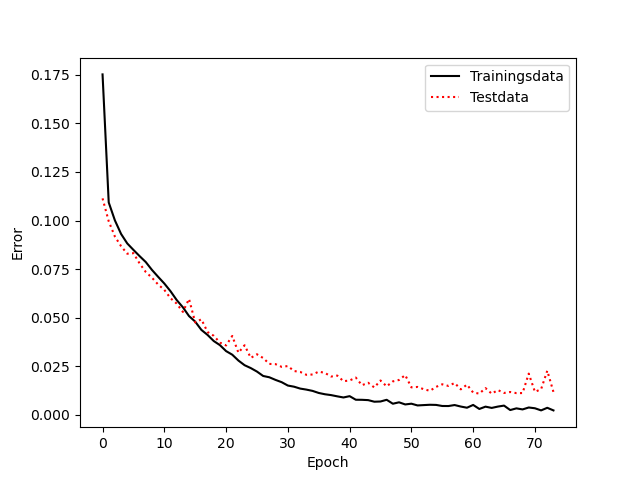
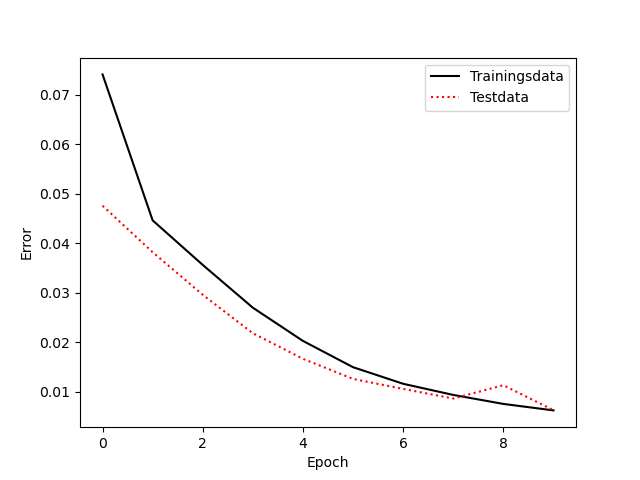
fixed privilege issue

diff --git a/streamer_shield_cli.py b/streamer_shield_cli.py
@@ -116,7 +116,19 @@ class StreamerShieldTwitch:
                 "value": True,
                 "cli_func": self.unblacklist_cli,
                 "twt_func": self.unblacklist_twitch
-                }
+                }, 
+        "streamershield":{
+            "help": "!streamershield : prints info about the shield",
+                "value": False,
+                "cli_func": self.shield_info_cli,
+                "twt_func": self.shield_info_twitch
+                }, 
+        "joinme":{
+            "help": "!joinme : joins user, only available in the bot chat",
+                "value": False,
+                "cli_func": self.join_me_cli,
+                "twt_func": self.join_me_twitch
+                },
         }
         pass
           
@@ -164,6 +176,8 @@ class StreamerShieldTwitch:
     ### CLI Command Handling
     async def command_handler(self, command :str):
         parts = command.split(" ")
+        if len(parts)==0:
+            return
         if not(parts[0] in self.commands.keys()):
             self.l.error(f'Command {parts[0]} unknown')
         if self.commands[parts[0]]['value']:
@@ -176,6 +190,10 @@ class StreamerShieldTwitch:
             com = input("type help for available commands\n")
             await self.command_handler(com)
     
+    async def shield_info_cli(self):
+        self.l.info('''
+                    StreamerShield is the AI ChatBot to rid twitch once and for all from scammers. More information here: https://linktr.ee/caesarlp
+                    ''')
     
     async def help_cli(self):
         for command, value in self.commands.items():
@@ -183,9 +201,19 @@ class StreamerShieldTwitch:
             
     async def stop_cli(self):
         self.l.fail("Stopping!")
-        await self.chat.stop()
-        await self.eventsub.stop()
-        await self.twitch.close()
+        try:
+            await self.chat.stop() #sometimes is already gone when stopped, so...
+        except:
+            pass
+        try:
+            await self.eventsub.stop()
+        except:
+            pass
+        try:
+            await self.twitch.close()
+        except:
+            pass
+        raise Exception("Stopped by User") #not the most elegant but works
     
     async def arm_cli(self):
         self.l.warning("Armed StreamerShield")
@@ -194,6 +222,9 @@ class StreamerShieldTwitch:
     async def disarm_cli(self):
         self.l.warning("Disarmed StreamerShield")
         self.is_armed = False
+    
+    async def join_me_cli(self):
+        self.l.error("Cannot invoke join_me from cli, please use join instead")
     
     async def join_cli(self, name:str):
         unable_to_join = self.chat.join_room(name)
@@ -228,6 +259,8 @@ class StreamerShieldTwitch:
         self.list_update(name, self.black_list, remove= True)
         
     ### Twitch Command Handling
+    async def shield_info_twitch(self, chat_command: ChatCommand):
+         await chat_command.reply('StreamerShield is the AI ChatBot to rid twitch once and for all from scammers. More information here: https://linktr.ee/caesarlp')
     
     async def help_twitch(self, chat_command : ChatCommand):
         if(not (chat_command.user.mod or chat_command.user.name == chat_command.room.name)):
@@ -257,11 +290,29 @@ class StreamerShieldTwitch:
         self.l.warning("Disarmed StreamerShield")
         self.is_armed = False
     
+    async def join_me_twitch(self, chat_command : ChatCommand):
+        name = chat_command.user.name
+        if(not (chat_command.room.name == self.chat.username)):
+            return
+        unable_to_join = await self.chat.join_room(name)
+        if not (unable_to_join == None):
+            await chat_command.reply("Unable to join")
+            self.l.error(f"Unable to join {name}")
+            return
+        if self.chat.is_mod(name):
+            await chat_command.reply("Joined succsessfully")
+            self.list_update(name, self.channel_location)
+            self.l.passing(f"Succsessfully joined {name}")
+            return
+        await chat_command.reply(f"Succsessfully joined {name}, but no mod status")
+        self.l.error(f"Succsessfully joined {name}, but no mod status")
+    
+    
     async def join_twitch(self, chat_command : ChatCommand):
-        name = chat_command.parameter
+        name = chat_command.parameter.replace("@", "")
         if(not (chat_command.user.mod or chat_command.user.name == chat_command.room.name)):
             return
-        unable_to_join = self.chat.join_room(name)
+        unable_to_join = await self.chat.join_room(name)
         if not (unable_to_join == None):
             await chat_command.reply("Unable to join")
             self.l.error(f"Unable to join {name}")
@@ -284,25 +335,25 @@ class StreamerShieldTwitch:
         
     async def whitelist_twitch(self, chat_command : ChatCommand):
         if chat_command.user.mod or chat_command.user.name == chat_command.room.name:
-            name = chat_command.parameter.replace(' ', '')
+            name = chat_command.parameter.replace("@", "")
             self.list_update(name, self.white_list)
             await chat_command.reply(f'User {name} is now whitelisted')
         
     async def unwhitelist_twitch(self, chat_command : ChatCommand):
         if chat_command.user.mod or chat_command.user.name == chat_command.room.name:
-            name = chat_command.parameter.replace(' ', '')
+            name = chat_command.parameter.replace("@", "")
             self.list_update(name, self.white_list, remove = True)
             await chat_command.reply(f'User {name} is no longer whitelisted')
             
     async def blacklist_twitch(self, chat_command : ChatCommand):
         if chat_command.user.mod or chat_command.user.name == chat_command.room.name:
-            name = chat_command.parameter.replace(' ', '')
+            name = chat_command.parameter.replace("@", "")
             self.list_update(name, self.black_list)
             await chat_command.reply(f'User {name} is now blacklisted')
         
     async def unblacklist_twitch(self, chat_command : ChatCommand):
         if chat_command.user.mod or chat_command.user.name == chat_command.room.name:
-            name = chat_command.parameter.replace(' ', '')
+            name = chat_command.parameter.replace("@", "")
             self.list_update(name, self.black_list, remove = True)
             await chat_command.reply(f'User {name} is no longer blacklisted')
     
@@ -317,7 +368,9 @@ class StreamerShieldTwitch:
         
     async def on_message(self, msg : ChatMessage):
         name = msg.user.name
-        if self.check_for_privilege(msg.user):
+        privilege = (msg.user.mod or msg.user.vip or msg.user.subscriber or msg.user.turbo)
+        if(privilege):
+            self.list_update(name, self.white_list)
             return
         await self.check_user(name, msg.room.room_id)
         

diff --git a/data_generator.py b/data_generator.py
@@ -126,13 +126,15 @@ if __name__ == "__main__":
     arr = np.array(load_csv("data_for_gen.csv"))
     raw_data_len = len(arr)
     raw_data_scam = np.count_nonzero(arr == "1")
-    arr = np.concatenate((arr, DataGen.name_gen("names.csv", 50, gen_trailing_numbers=True)))
     arr = np.concatenate((arr, DataGen.gen_char(arr, char='_')))
-    arr = np.concatenate((arr, DataGen.full_name_gen("names.csv", "surnames.csv", 50, gen_trailing_numbers=True)))
-    arr = np.concatenate((arr, DataGen.full_name_gen("names.csv", "surnames.csv", 50, gen_trailing_numbers=True, insert = '_')))
+    arr = np.concatenate((arr, DataGen.randomize_numbers(arr)), axis=0)
+    arr = np.concatenate((arr, DataGen.name_gen("names.csv", 30, gen_trailing_numbers=True)))
+    arr = np.concatenate((arr, DataGen.full_name_gen("names.csv", "surnames.csv", 20, gen_trailing_numbers=True)))
+    arr = np.concatenate((arr, DataGen.full_name_gen("names.csv", "surnames.csv", 20, gen_trailing_numbers=True, insert = '_')))
+    arr = np.concatenate((arr, DataGen.gen_char(arr, char='_')))
+    arr = np.concatenate((arr, DataGen.randomize_numbers(arr)), axis=0)
     arr = np.concatenate((arr, DataGen.gen_gfx_prefix(arr)),axis=0)
     arr = np.concatenate((arr, DataGen.gen_gfx_suffix(arr)), axis=0)
-    arr = np.concatenate((arr, DataGen.randomize_numbers(arr)), axis=0)
     print(
         f'''{math.floor((np.count_nonzero(arr == "1")/len(arr))*100)}% of the Dataset are scammers
         Of that {raw_data_scam} were not generated

diff --git a/streamer_shield.py b/streamer_shield.py
@@ -45,8 +45,8 @@ class StreamerShield:
     
     
     def test(self, onehot):
-        test_names_users = ["caesarlp", "VTNiles", "RustoCa", "norari__" ]
-        test_names_scammers = ["Sophie_Howard25", "Jessica_Bell", "Amber_Brooks", "Alice_gfx"  ]
+        test_names_users = ["caesarlp", "VTNiles", "RustoCa", "norari__", "roooooooooberrrrrrrrrrrt" ]
+        test_names_scammers = ["Sophie_Howard25", "Jessica_Bell", "Amber_Brooks", "Alice_gfx", "elizabethshriver" ]
         correctly_identified_users_bool = []
         correctly_identified_users_conf = []
         correctly_identified_scammers_bool = []
@@ -74,7 +74,7 @@ class StreamerShield:
         
     
 if __name__ == "__main__":
-    ss = StreamerShield("G:\VS_repos\streamer_shield\shield_candidate_32_16_8.h5", 25, 0.5, 0.5)
+    ss = StreamerShield("G:\\VS_repos\\streamer_shield\\auto_gen.h5", 32, 0.3, 0.3)
     l = Logger(console_log=True)
     onehot = False
     

diff --git a/train.py b/train.py
@@ -5,9 +5,9 @@ from streamer_shield_train import train
 
 if __name__ == "__main__":
     l= Logger(console_log=True)
-    layers = [48, 32, 16]
-    train("generated_data.csv", "auto_gen.h5", layers=layers, patience = 10, epochs = 100, sequence_len=30)
-    ss = StreamerShield("auto_gen.h5",30, 0.5,0.5)
+    layers = [32, 28, 16]
+    train("generated_data.csv", "auto_gen.h5", layers=layers, kernel=5, patience = 10, epochs = 10, sequence_len=32)
+    ss = StreamerShield("auto_gen.h5",32, 0.5,0.5)
     correctly_identified_users_bool,correctly_identified_users_conf,correctly_identified_scammers_bool, correctly_identified_scammers_conf = ss.test(False)
     user_perc = 0
     for user in correctly_identified_users_bool:
